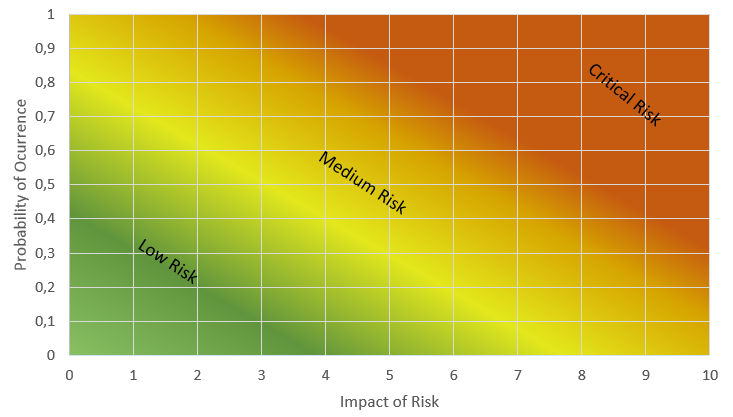
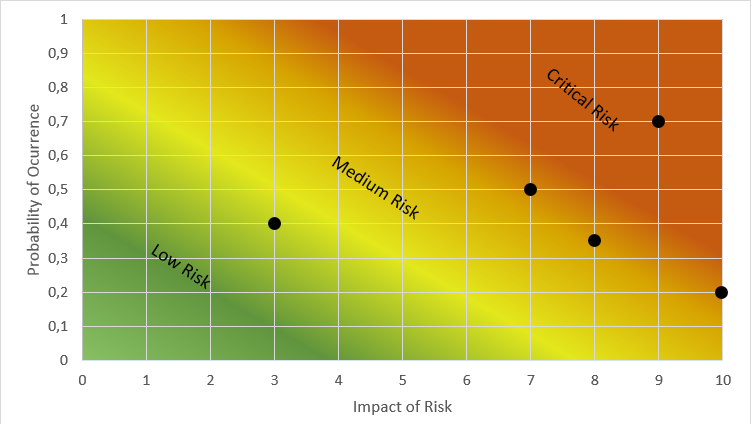
improved probability / impact chart witzh values

diff --git a/assignment/document.tex b/assignment/document.tex
@@ -12,6 +12,8 @@
 \usepackage[hyphens]{url}
 \bibliographystyle{abbrvnat}
 
+\usepackage{adjustbox} 
+
 %Diagramme
 \usepackage{pgfplots}
 \usepackage{pgfplotstable}
